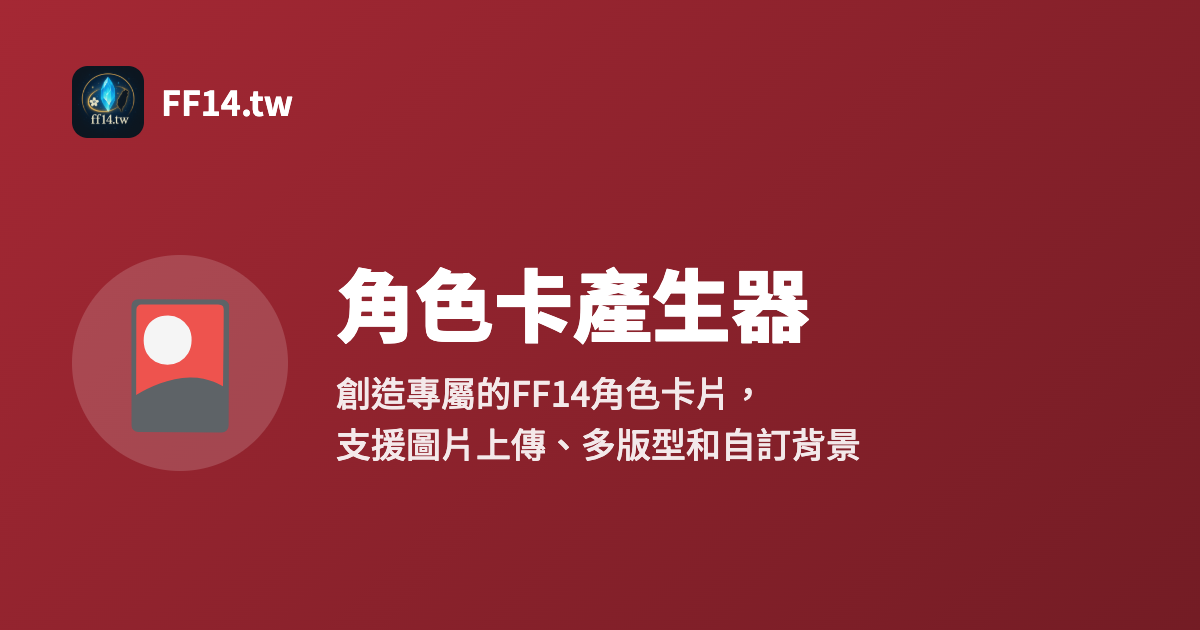
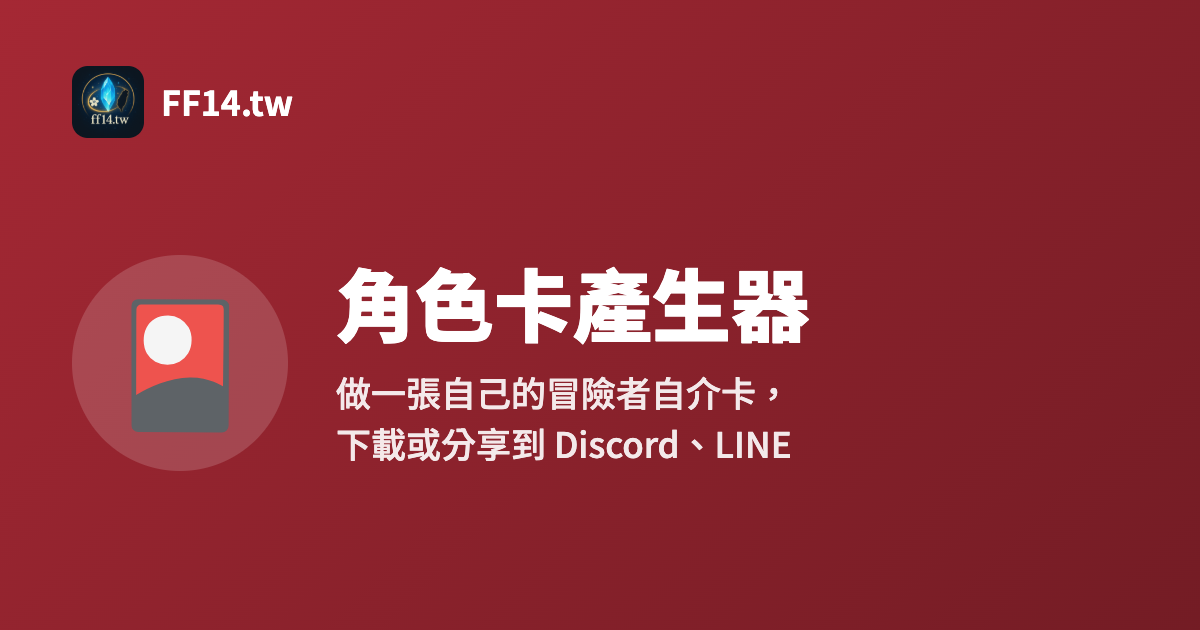
feat(home): describe the new character card and drop its under-construction tag
- 原因：角色卡重做之後已經能真的下載、分享、複製，首頁卻還標著「施工中」，說明也還寫著已經拿掉的「多版型」與「自訂背景」；貼到 Discord、LINE 的預覽又是照抄舊說明，所以首頁、工具頁與預覽要一起改成照實寫
- 首頁角色卡的卡片：拿掉「🚧 施工中」標籤，說明改成「做一張自己的冒險者自介卡，下載或分享到 Discord、LINE」（zh／en／ja 三語，index.html 的預設字同 zh）；角色卡是最後一個用到 status_under_construction 的卡片，三語的鍵一起拿掉
- 工具頁的 <meta name="description"> 改成「做一張自己的冒險者自介卡：填名字、伺服器和主職就能下載，也能加上截圖、喜歡的內容與遊玩時段。」
- 重跑 node scripts/share-preview.mjs pages 與 images：角色卡頁 <head> 那一段的 og:description 與 og:image:alt、tools/character-card/manifest.webmanifest 的 description（照抄頁面說明）、assets/images/og/character-card.png（只重畫這一張，其餘 24 張沒變）跟著更新；再跑一次兩個指令都沒有要更新的
- tests/home-page.test.js：角色卡不再帶標籤（標示表拿掉它，全站不該再出現 status_under_construction，三語翻譯檔也不再定義它）；新增「角色卡的說明照實寫」測試，釘住三語的首頁說明（不再寫多版型、自訂背景）與工具頁的 meta description

Changed region(s): [[0.2775, 0.6032, 0.74, 0.754]]

diff --git a/assets/js/i18n/translations/index.js b/assets/js/i18n/translations/index.js
@@ -22,7 +22,7 @@ const IndexTranslations = {
 
         tool_dungeon_database_desc: '完整的FF14副本資訊查詢，包含獎勵與機制說明',
 
-        tool_character_card_desc: '創造專屬的FF14角色卡片，支援圖片上傳、多版型和自訂背景',
+        tool_character_card_desc: '做一張自己的冒險者自介卡，下載或分享到 Discord、LINE',
 
         tool_faux_hollows_desc: '計算 FF14 Faux Hollows Foxes 活動的最佳點擊策略',
 
@@ -45,7 +45,6 @@ const IndexTranslations = {
         tool_tc_shop_desc: '統計已購買的商城道具，協助管理官方商城消費紀錄',
 
         // 狀態標籤（標題旁）
-        status_under_construction: '🚧 施工中',
         status_intl_only: '僅限國際版角色',
         tag_external_site: '外部網站 ↗',
 
@@ -73,7 +72,7 @@ const IndexTranslations = {
 
         tool_dungeon_database_desc: 'Complete FF14 dungeon info with rewards and mechanics',
 
-        tool_character_card_desc: 'Create custom FF14 character cards with image upload and templates',
+        tool_character_card_desc: 'Make your own adventurer card to download or share on Discord and LINE',
 
         tool_faux_hollows_desc: 'Calculate the optimal clicking strategy for Faux Hollows Foxes event',
 
@@ -96,7 +95,6 @@ const IndexTranslations = {
         tool_tc_shop_desc: 'Track purchased shop items and manage your official store spending history',
 
         // Status tags (next to the title)
-        status_under_construction: '🚧 WIP',
         status_intl_only: 'Global servers only',
         tag_external_site: 'External site ↗',
 
@@ -124,7 +122,7 @@ const IndexTranslations = {
 
         tool_dungeon_database_desc: 'FF14ダンジョン情報。報酬とギミック説明を収録',
 
-        tool_character_card_desc: 'カスタムFF14キャラクターカードを作成、画像アップロードとテンプレート対応',
+        tool_character_card_desc: '自分の冒険者カードを作って、DiscordやLINEで共有',
 
         tool_faux_hollows_desc: '幻フォールスホローの最適クリック戦略を計算',
 
@@ -147,7 +145,6 @@ const IndexTranslations = {
         tool_tc_shop_desc: '購入済みショップアイテムを統計し、公式ストアの消費履歴を管理',
 
         // ステータスタグ（タイトルの横）
-        status_under_construction: '🚧 工事中',
         status_intl_only: 'グローバル版キャラクターのみ',
         tag_external_site: '外部サイト ↗',
 

diff --git a/tools/character-card/index.html b/tools/character-card/index.html
@@ -4,18 +4,18 @@
     <meta charset="UTF-8">
     <meta name="viewport" content="width=device-width, initial-scale=1.0">
     <title>角色卡產生器 - FF14.tw</title>
-    <meta name="description" content="快速生成你的FF14角色資訊卡片，支援多種樣式和自訂選項。">
+    <meta name="description" content="做一張自己的冒險者自介卡：填名字、伺服器和主職就能下載，也能加上截圖、喜歡的內容與遊玩時段。">
     <link rel="icon" type="image/x-icon" href="../../assets/images/ff14tw.ico">
     <!-- 分享預覽與主畫面：由 scripts/share-preview.mjs 產生，改了分頁標題或說明後重跑 -->
     <meta property="og:site_name" content="FF14.tw">
     <meta property="og:type" content="website">
     <meta property="og:locale" content="zh_TW">
     <meta property="og:title" content="角色卡產生器 - FF14.tw">
-    <meta property="og:description" content="快速生成你的FF14角色資訊卡片，支援多種樣式和自訂選項。">
+    <meta property="og:description" content="做一張自己的冒險者自介卡：填名字、伺服器和主職就能下載，也能加上截圖、喜歡的內容與遊玩時段。">
     <meta property="og:image" content="https://ff14.tw/assets/images/og/character-card.png">
     <meta property="og:image:width" content="1200">
     <meta property="og:image:height" content="630">
-    <meta property="og:image:alt" content="角色卡產生器：創造專屬的FF14角色卡片，支援圖片上傳、多版型和自訂背景">
+    <meta property="og:image:alt" content="角色卡產生器：做一張自己的冒險者自介卡，下載或分享到 Discord、LINE">
     <meta name="twitter:card" content="summary_large_image">
     <meta name="theme-color" content="#667eea">
     <meta name="apple-mobile-web-app-title" content="角色卡產生器">

diff --git a/index.html b/index.html
@@ -85,9 +85,8 @@
                         <div class="tool-icon" aria-hidden="true">🎴</div>
                         <div class="tool-heading">
                             <h3 class="tool-title" data-i18n="tool_character_card_title">角色卡產生器</h3>
-                            <span class="tag tag-warning tool-tag" data-i18n="status_under_construction">🚧 施工中</span>
                         </div>
-                        <p class="tool-description" data-i18n="tool_character_card_desc">創造專屬的FF14角色卡片，支援圖片上傳、多版型和自訂背景</p>
+                        <p class="tool-description" data-i18n="tool_character_card_desc">做一張自己的冒險者自介卡，下載或分享到 Discord、LINE</p>
                     </a>
 
                     <a href="tools/faux-hollows-foxes/index.html" class="tool-card available">
